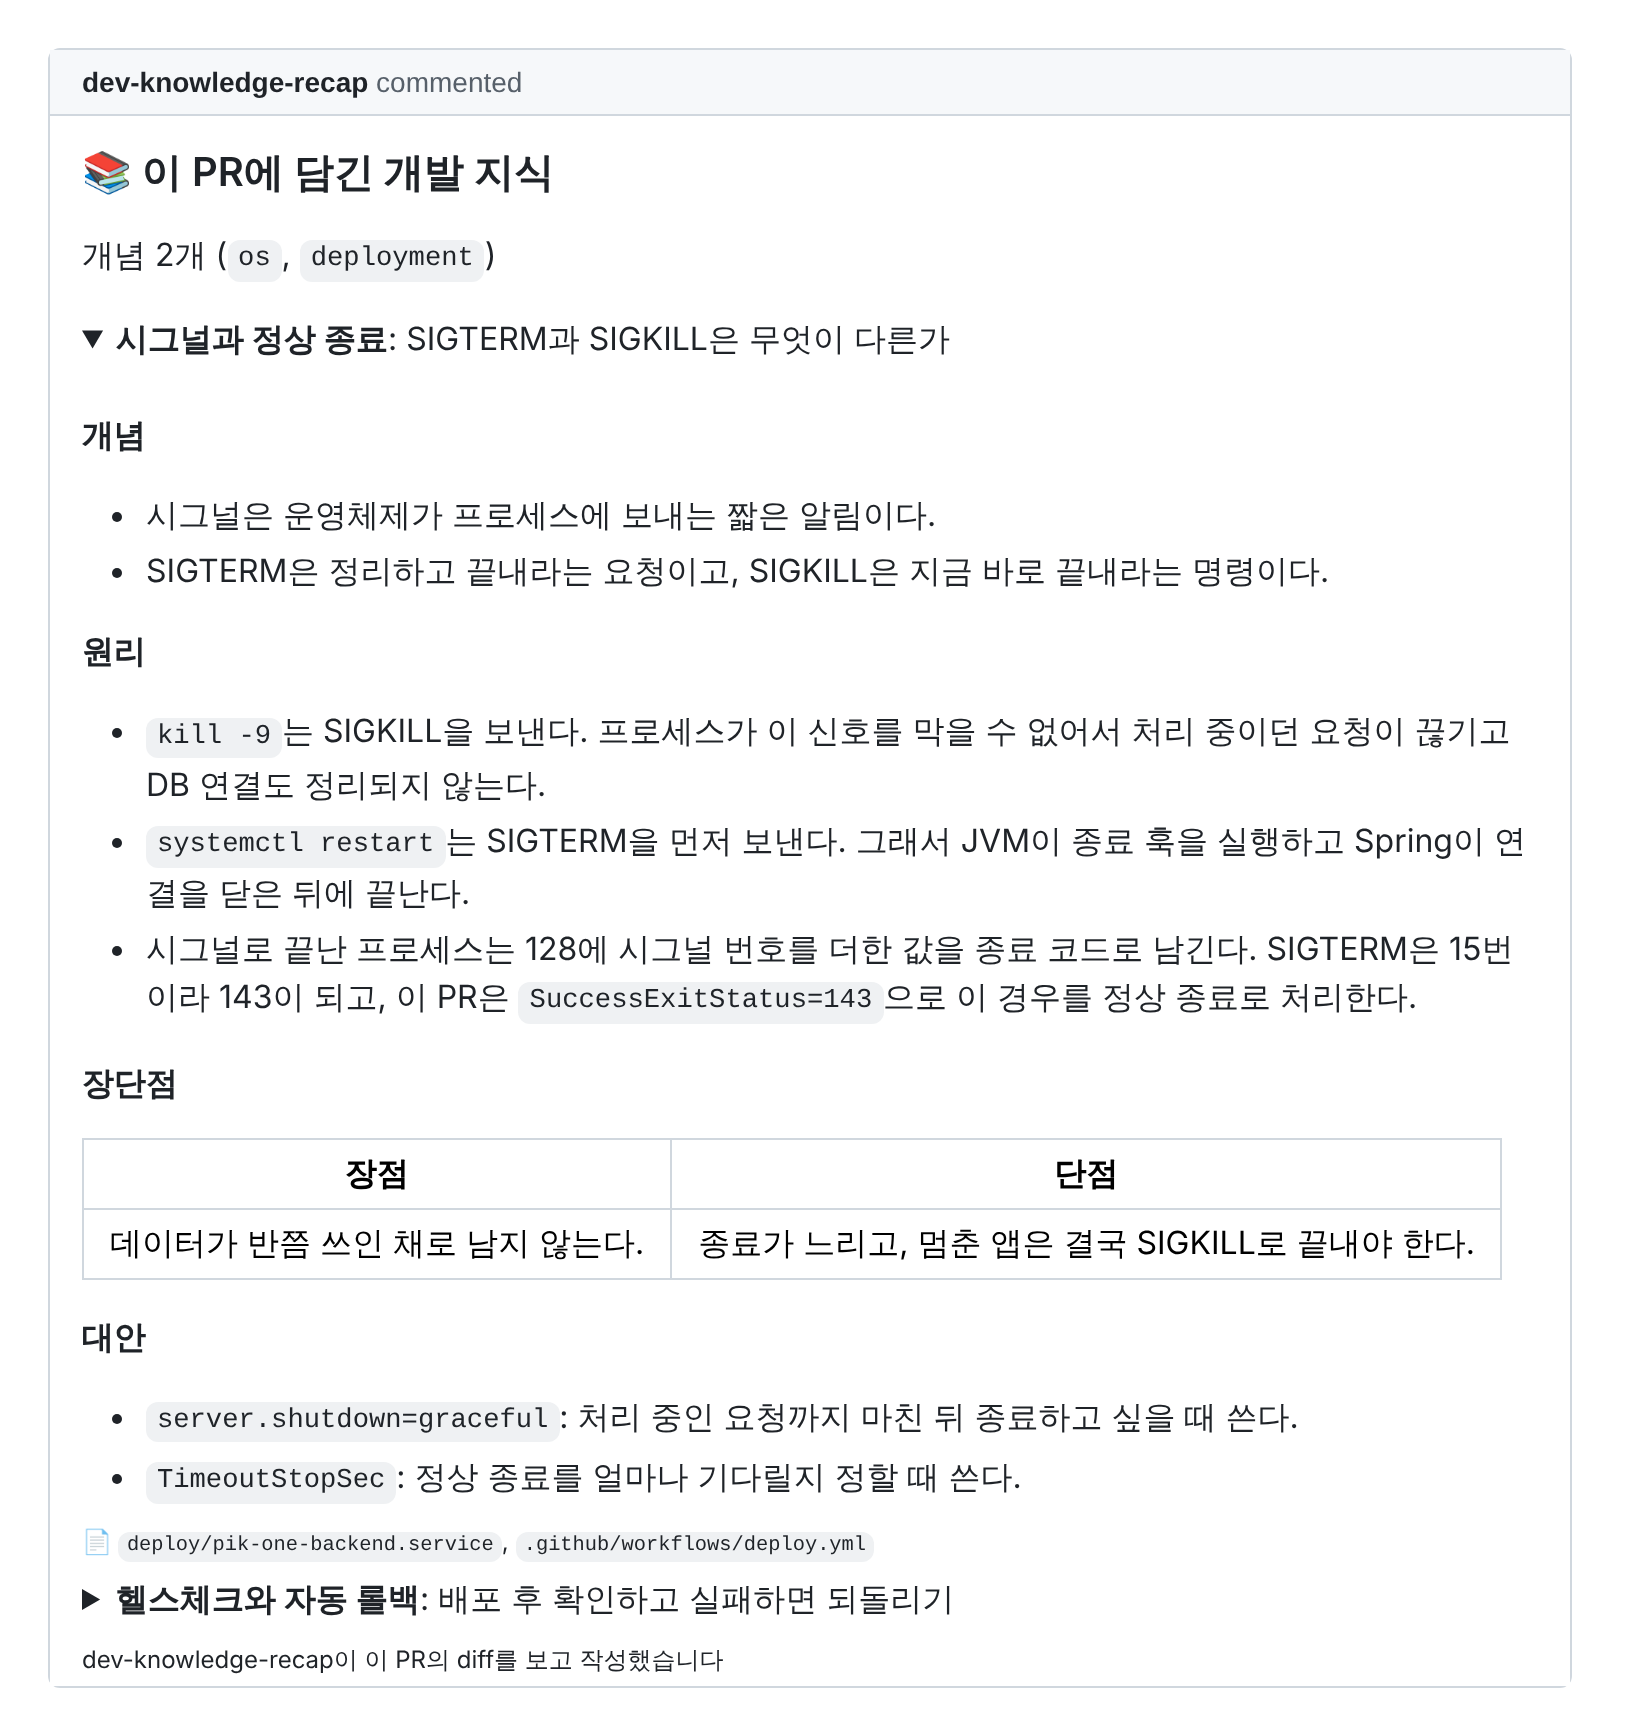
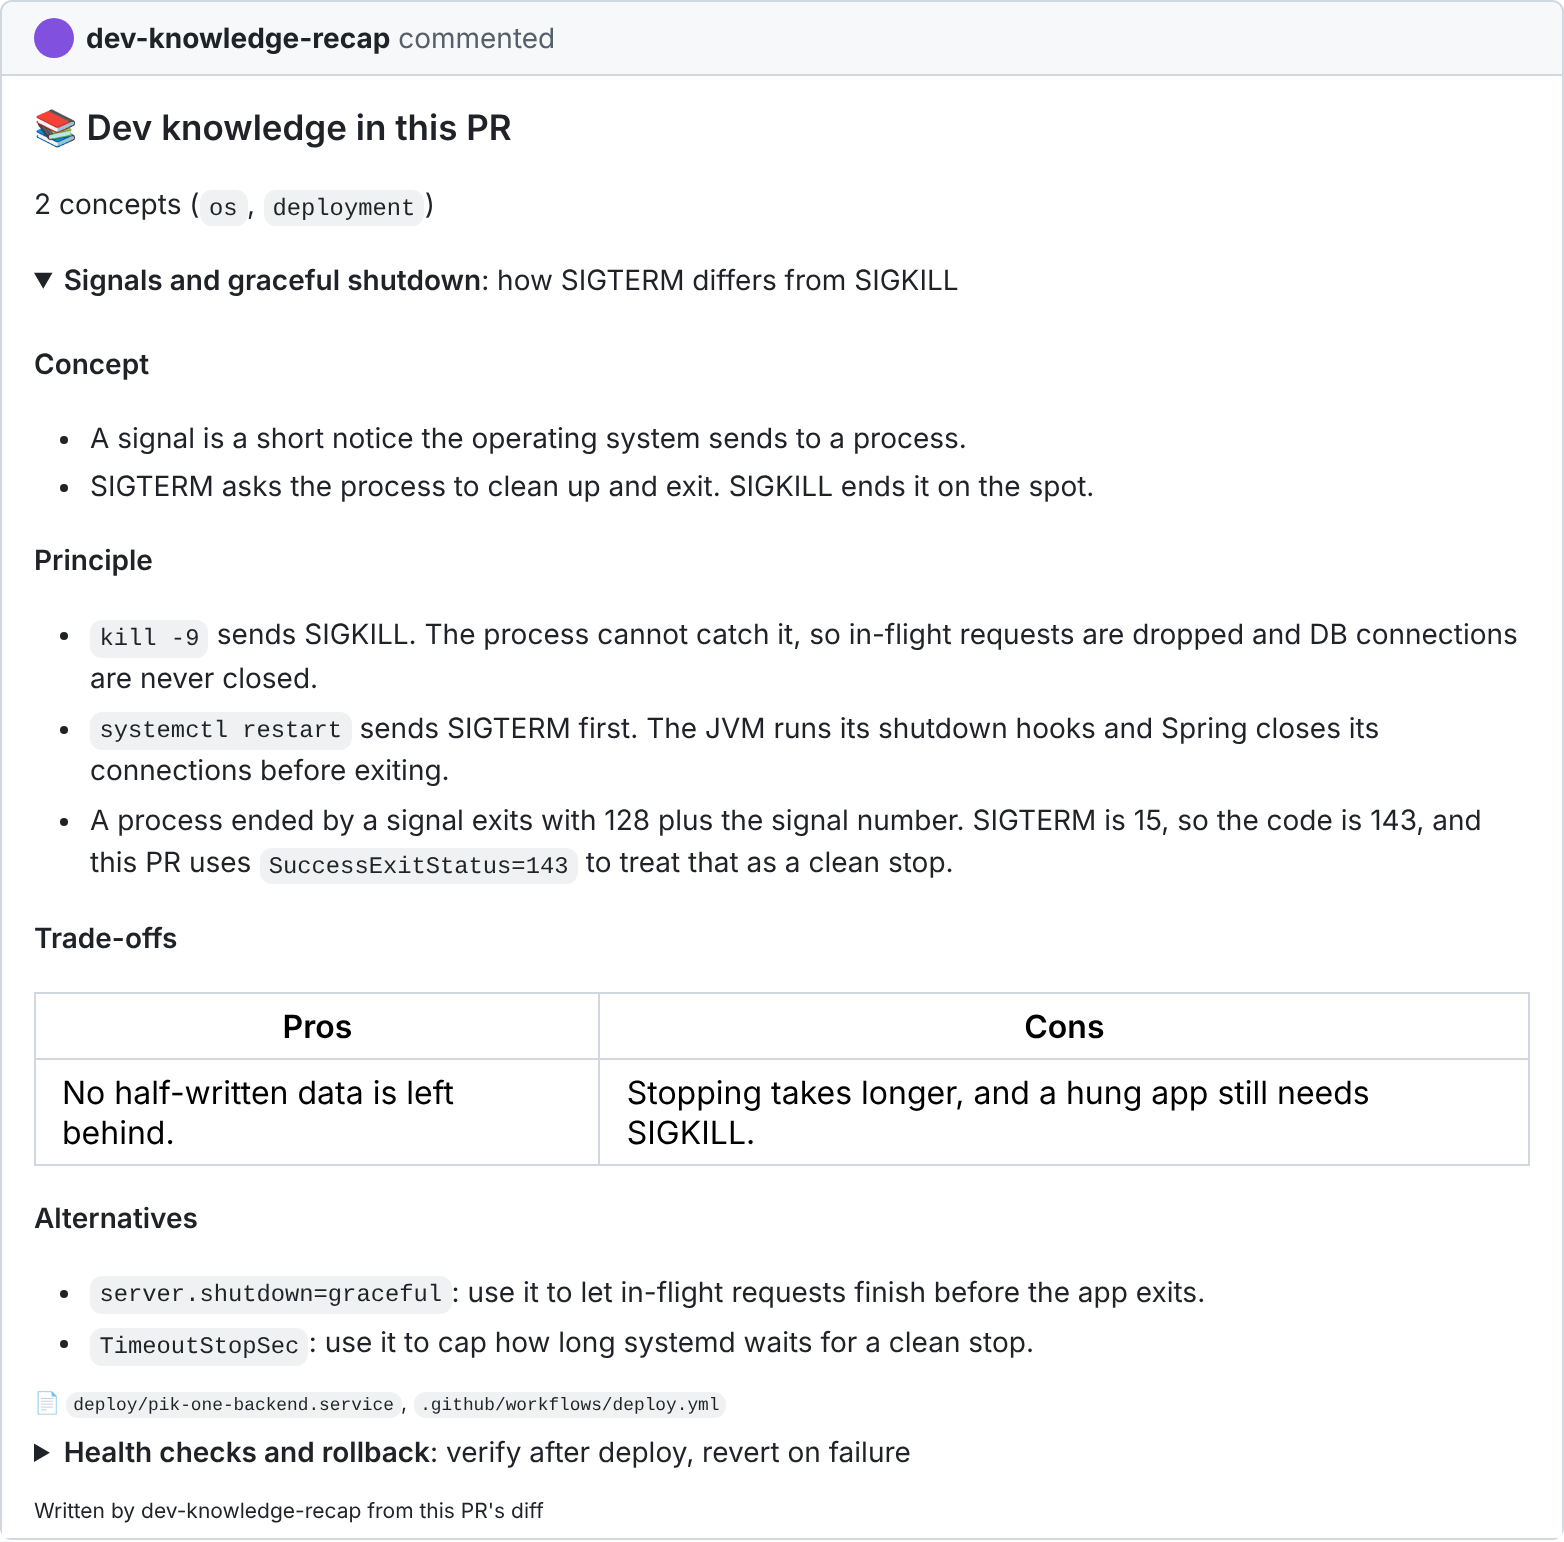
Show English examples and redo the README

Changed region(s): [[0.0, 0.0, 1.0, 1.0], [0.9821, 0.0, 1.0, 0.0623], [0.9514, 0.6848, 0.9821, 0.716]]

diff --git a/README.md b/README.md
@@ -1,46 +1,118 @@
-# dev-knowledge-recap
+<div align="center">
 
-A Claude Code skill that writes up the CS concepts behind a PR's code: what the concept is, how it works,
-its trade-offs, and alternatives. The notes go to a PR comment, to Markdown files under `docs/`, or both.
+# 📚 dev-knowledge-recap
 
-It does not review code or summarize the change. If a PR swaps `kill -9` for a systemd restart,
-you get a note on signals and graceful shutdown, not a list of what changed.
+**Learn the CS behind the code your AI just wrote.**
 
-I built it for the case where AI wrote most of the code and I still want to understand what is underneath.
+A Claude Code skill that reads your PR and writes short study notes on the concepts underneath it.
+
+<img src="https://img.shields.io/badge/Claude%20Code-skill-8250df" alt="Claude Code skill">
+<img src="https://img.shields.io/badge/output-PR%20comment%20%7C%20Markdown-2da44e" alt="Output: PR comment or Markdown">
+<img src="https://img.shields.io/badge/language-auto-0969da" alt="Language: auto">
+
+<br>
+<br>
+
+<img src="docs/images/collapsed.png" width="680" alt="A collapsed dev-knowledge-recap comment on a PR">
+
+</div>
+
+<br>
+
+## Why
+
+AI makes it easy to ship code you could not explain. You ask it to fix a deploy script, it swaps `kill -9` for a systemd service, adds a health check, and the PR looks fine. But do you know why SIGTERM matters, or what exit code 143 means?
+
+dev-knowledge-recap picks out those concepts and writes them up, so every PR leaves you knowing a little more than before.
+
+It is not a code reviewer, and it does not summarize your change. Your PR description already does that.
+
+## What you get
+
+Each concept opens into four parts.
+
+| Section | What it covers |
+|---|---|
+| **Concept** | What it is, in a sentence or two |
+| **Principle** | How it works, and how this PR's code uses it |
+| **Trade-offs** | What you gain and what you give up |
+| **Alternatives** | Other ways to do it, and when to pick them |
+
+<details>
+<summary><b>See an expanded comment</b></summary>
+<br>
+
+<img src="docs/images/expanded.png" width="680" alt="An expanded concept with concept, principle, trade-offs and alternatives">
+
+</details>
+
+It goes one level below the API. `Promise.all` becomes a note on concurrency and the event loop. `@Transactional` becomes a note on isolation levels.
+
+## Install
+
+Copy the skill into your project:
+
+```bash
+mkdir -p .claude/skills && cp -r skills/dev-knowledge-recap .claude/skills/
+```
+
+Or install it for every project:
+
+```bash
+mkdir -p ~/.claude/skills && cp -r skills/dev-knowledge-recap ~/.claude/skills/
+```
 
 ## Usage
 
+Run it on a branch with an open PR:
+
 ```
 /dev-knowledge-recap
+```
+
+It asks where to put the notes: a PR comment, Markdown files in `docs/`, or both. To skip the question, pass it:
+
+```
 /dev-knowledge-recap --target docs --depth detailed
 ```
 
 | Option | Values | Default |
 |---|---|---|
 | `--target` | `pr`, `docs`, `both` | asks |
-| `--lang` | `auto` or a language code | language of the PR, else English |
 | `--depth` | `concepts`, `summary`, `detailed` | `summary` |
+| `--lang` | `auto`, `en`, `ko`, ... | follows the PR, else English |
 | `--max` | 1 to 5 | 2 |
 | `--dry-run` | | off |
 
-Defaults can live in `.dev-knowledge-recap.yml` at the repo root.
+To set defaults for a repo, add `.dev-knowledge-recap.yml`:
 
-Docs go to `docs/dev-knowledge/<topic>.md`. When a topic shows up again in a later PR,
-the existing file gets the PR added to it instead of a new file.
+```yaml
+target: docs
+depth: summary
+max: 2
+```
 
-## Example
+## Building a knowledge base
 
-From a deploy PR that moved the backend to systemd and added a health check with rollback.
-Each concept is collapsed by default.
+With `--target docs`, each concept gets its own file:
 
-<img src="docs/images/collapsed.png" width="600">
+```
+docs/dev-knowledge/
+├── README.md               index of every concept
+├── graceful-shutdown.md
+└── health-check-rollback.md
+```
 
-<img src="docs/images/expanded.png" width="600">
+When a concept comes up again in a later PR, the existing file gets that PR added to it instead of a new copy. Over time the folder turns into a CS notebook built from your own code.
 
-## Install
+## Light on tokens
 
-Copy `skills/dev-knowledge-recap/` into `.claude/skills/` in your project, or into `~/.claude/skills/`.
+The diff is the expensive part, so the skill reads as little of it as it can.
+
+- It stops early when nothing new has been pushed since the last run, or when only docs, assets or tests changed.
+- It picks at most five relevant files from the diff stat and reads only those.
+- The analysis runs in a subagent, so the diff never fills up your main conversation.
 
 ## Design
 
-[docs/DESIGN.md](docs/DESIGN.md)
+The full design, including how concepts are chosen and the writing rules, is in [docs/DESIGN.md](docs/DESIGN.md).

diff --git a/skills/dev-knowledge-recap/templates/pr-comment.md b/skills/dev-knowledge-recap/templates/pr-comment.md
@@ -25,4 +25,4 @@
 <sub>📄 `{{file}}`, `{{file}}`</sub>
 </details>
 
-<sub>Generated by dev-knowledge-recap from this PR's diff</sub>
+<sub>Written by dev-knowledge-recap from this PR's diff</sub>
